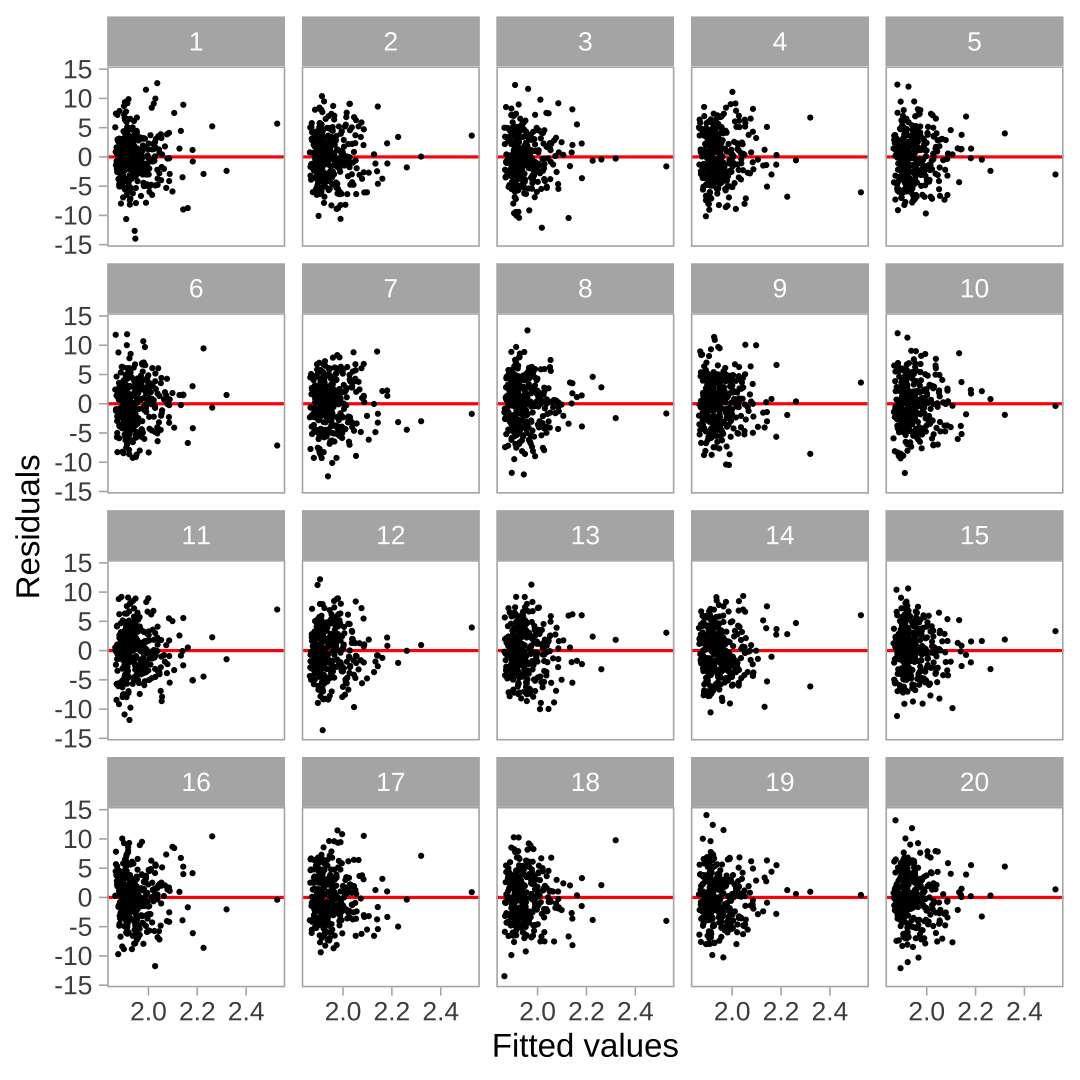
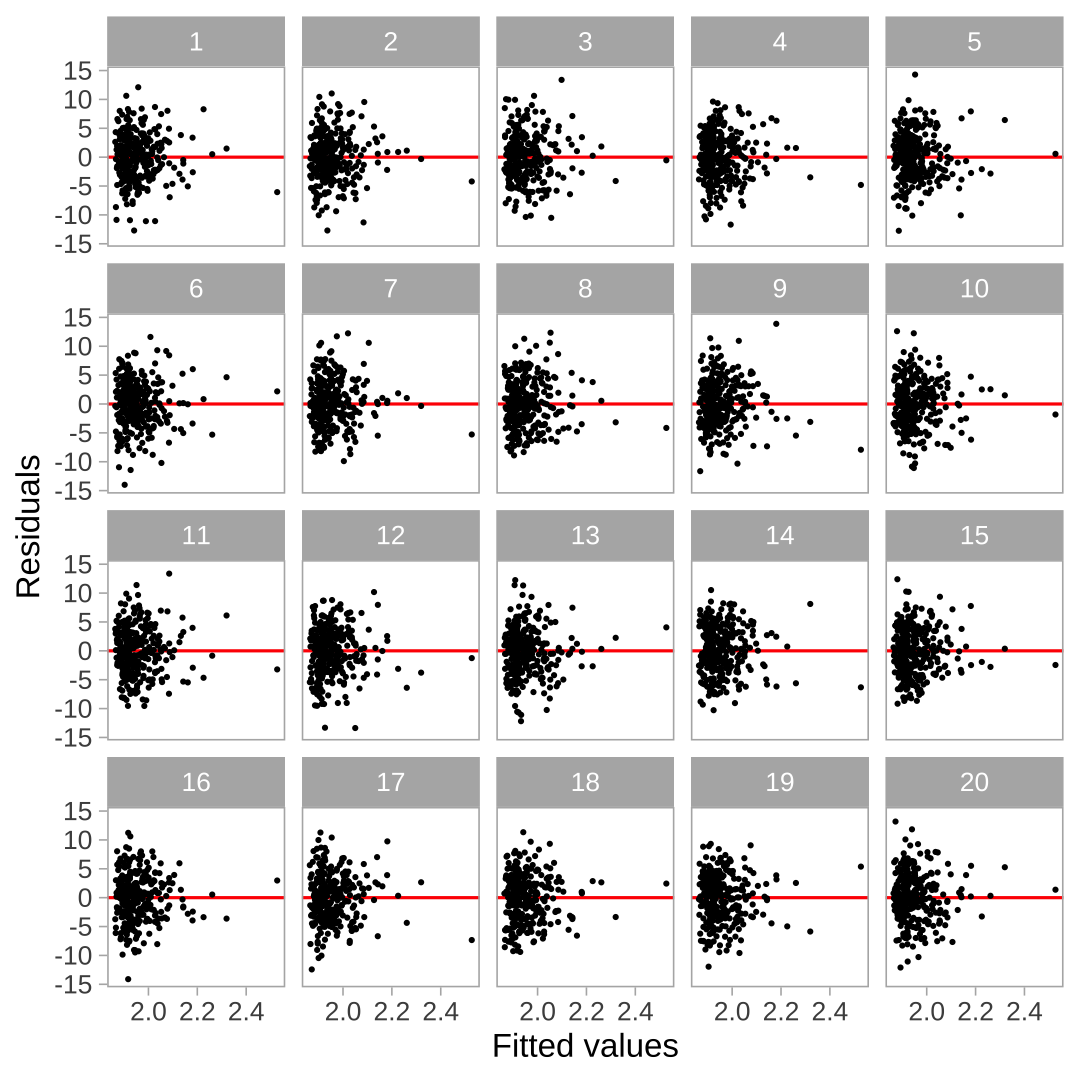
finish heter

diff --git a/Milestone_presentation_1/Milestone_presentation_1/Milestone_presentation_1.html b/Milestone_presentation_1/Milestone_presentation_1/Milestone_presentation_1.html
@@ -273,6 +273,28 @@ Fig. 9: _Residual plots of cubic model under different effect sizes._
 
 #### Let `\(\boldsymbol{X}_a=[\boldsymbol{1},\boldsymbol{X}]\)` denotes the set of regressors in matrix form. The residuals obtained from the null model are `$$\boldsymbol{e} \sim N(\boldsymbol{0}, \boldsymbol{R}_a\boldsymbol{V}),$$` where `\(\boldsymbol{R}_a=\boldsymbol{I}-\boldsymbol{X}_a(\boldsymbol{X}_a'\boldsymbol{X}_a)^{-1}\boldsymbol{X}_a'\)` and `\(\boldsymbol{V}\)` is a diagonal matrix with `\(V_{ii}=1+b(2-|a|)(X_i  -  a)^2\)`, `\(i = 1,...,n\)`. 
 
+#### The **effect size** is derived as `\(ES = b\sqrt{n}\)`.
+
+---
+
+.pull-left[
+&lt;img src="Milestone_presentation_1_files/figure-html/unnamed-chunk-5-1.png" width="100%" /&gt;
+
+.caption[
+Fig. 10: _A lineup of residual plots generated with the heteroskedasticity model._ 
+]
+]
+
+.pull-right[
+
+&lt;img src="Milestone_presentation_1_files/figure-html/unnamed-chunk-6-1.png" width="100%" /&gt;
+
+.caption[
+Fig. 11: _Residual plots of heteroskedasticity model under different effect sizes._ 
+]
+
+]
+
 ---
 
 # Automatic Visual Inference with Computer Vision Models
